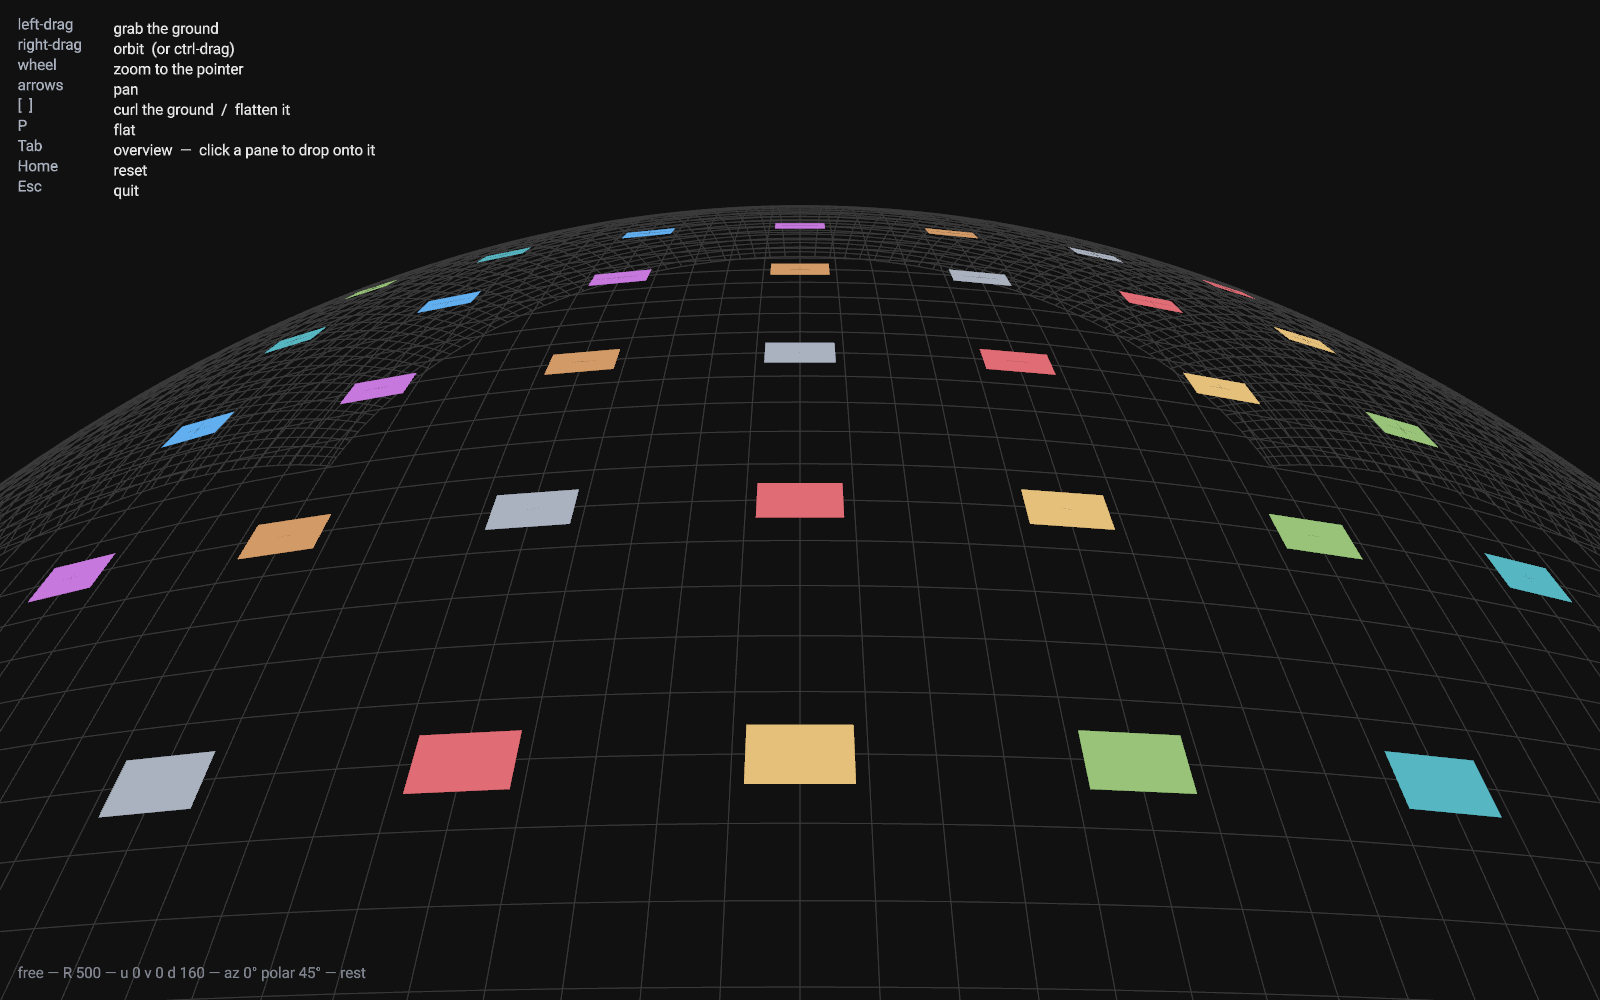
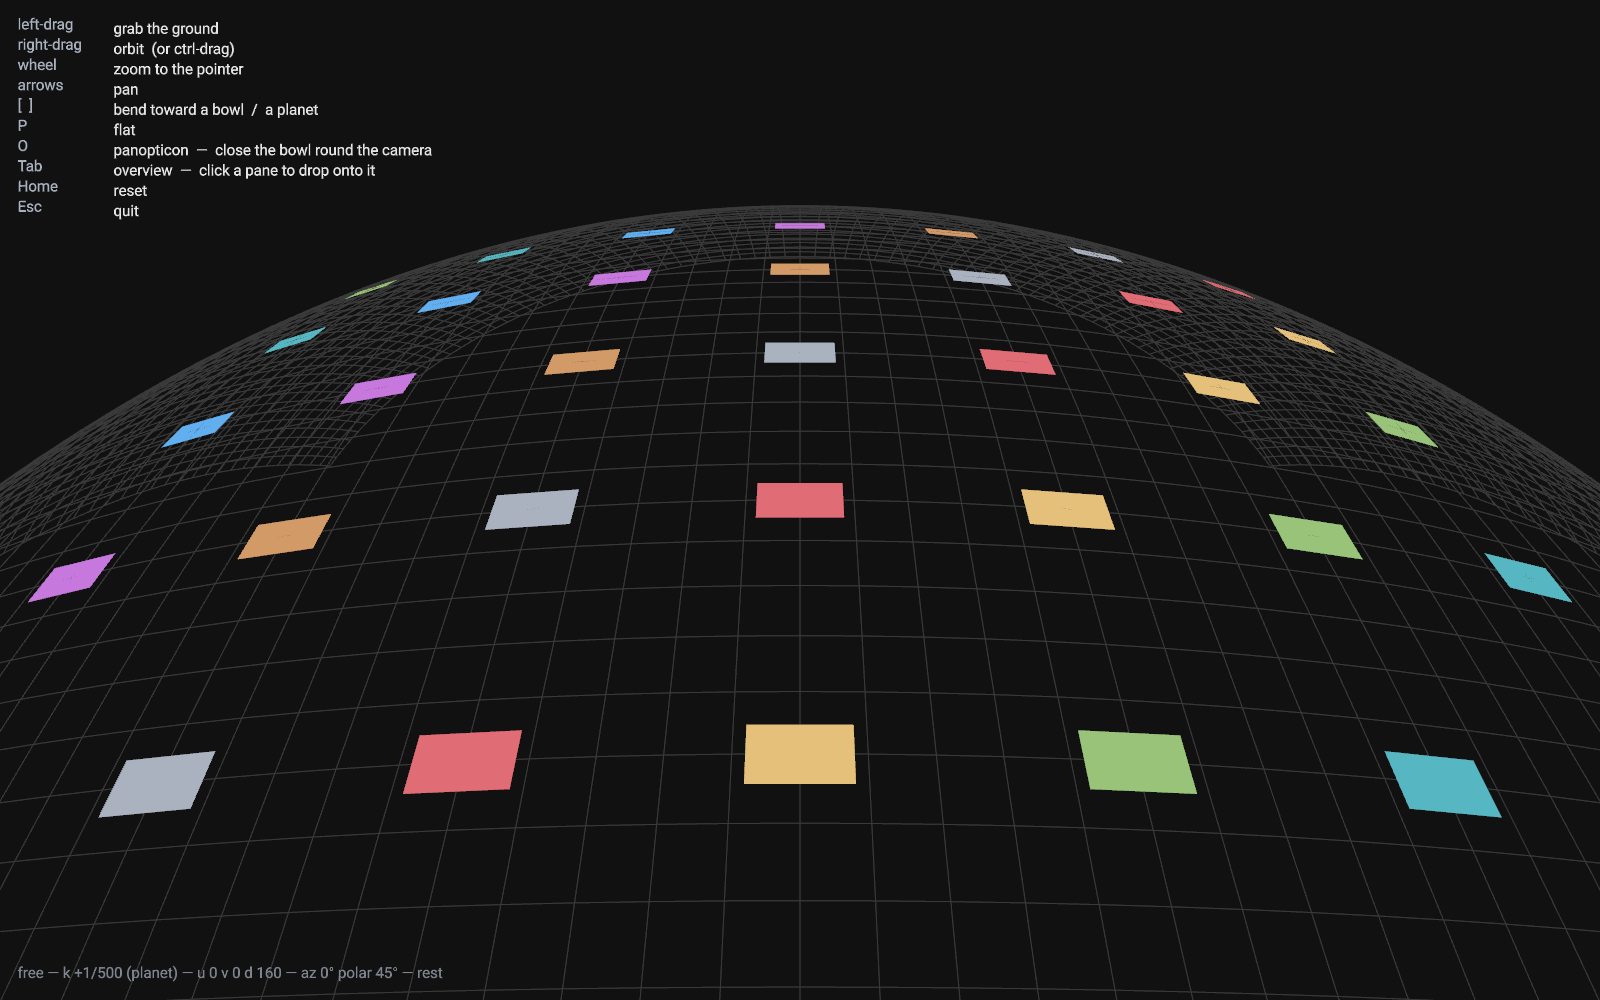
heli: [ ] walk the curvature through 0, O is the panopticon
[ and ] step a ladder of curvatures, +-MAX_CURVATURE / 1.25^i for 32 rungs
each side and 0 itself, so a press bends the ground by about the same look
and the plane is a rung rather than a limit. P sets k = 0. O sets
k = -1 / distance (the target's), which closes the bowl onto the camera and
puts it at the centre. --radius is now --curvature, signed, and takes a
fraction (--curvature -1/300). The grid is rewritten on any change of k,
sign included, where 0.2's relative test against the radius could never fire
from 0. The status line reads flat, or k +1/300 (planet), or k -1/300 (bowl).

The README takes the new vocabulary, and shots/ is the same six frames
rendered with --curvature, plus a -1/300 bowl from 160 out at 60 degrees and
the panopticon: level from the centre of a -1/160 bowl.

Claude-Session: https://claude.ai/code/session_01UyrybVtkstAakkV52gwH6z

Changed region(s): [[0.0625, 0.093, 0.2812, 0.217], [0.0312, 0.961, 0.25, 0.992], [0.0, 0.124, 0.0312, 0.217]]

diff --git a/addons/controls/src/bin/heli.rs b/addons/controls/src/bin/heli.rs
@@ -1,17 +1,20 @@
 //! The demo for [`three_rs_controls`]: a map camera over a ground that can be
-//! flat or a small planet, with a grid of panes lying on it.
+//! flat, a small planet, or a bowl closing round the camera, with a grid of
+//! panes lying on it.
 //!
 //! ```text
 //! cargo run --release -p three-rs-controls --bin heli
 //! cargo run --release -p three-rs-controls --bin heli -- --headless shots/heli-plane-low.png
-//! cargo run --release -p three-rs-controls --bin heli -- --headless shots/x.png --radius 300 --overview
+//! cargo run --release -p three-rs-controls --bin heli -- --headless shots/x.png --curvature 1/300 --overview
+//! cargo run --release -p three-rs-controls --bin heli -- --headless shots/x.png --curvature -1/160 --pose 0,0,160,0,90
 //! ```
 //!
 //! Left-drag grabs the ground and pulls it under the cursor, right-drag (or
 //! ctrl and left-drag) orbits, the wheel zooms toward the pointer, the arrow
-//! keys pan, `[` and `]` curl the ground up and flatten it again, `P` snaps it
-//! flat, `Home` returns to the start pose, `Tab` is the overview and `Esc`
-//! quits. In the overview a click picks a pane and drops onto it.
+//! keys pan, `[` and `]` bend the ground toward a bowl and toward a planet,
+//! through the plane, `P` snaps it flat, `O` closes the bowl round the camera
+//! (the panopticon), `Home` returns to the start pose, `Tab` is the overview
+//! and `Esc` quits. In the overview a click picks a pane and drops onto it.
 //!
 //! The window, the surface, the event loop and the headless path are lifted
 //! from `src/bin/viewer.rs`; the scene and the controls are this file's own.
@@ -29,7 +32,7 @@ use three_rs::{
     plane_geometry, Color, LineSegments, Matrix4, Mesh, MeshBasicNodeMaterial, ObjectRef,
     PerspectiveCamera, Renderer, RendererParameters, Scene, Vector3,
 };
-use three_rs_controls::{Ground, MapControls, Mode, Pane, Pose};
+use three_rs_controls::{Ground, MapControls, Mode, Pane, Pose, MAX_CURVATURE};
 
 use winit::application::ApplicationHandler;
 use winit::event::{ElementState, Modifiers, MouseButton, MouseScrollDelta, WindowEvent};
@@ -42,10 +45,18 @@ use winit::window::{Window, WindowId};
 /// The vertical field of view the fit and the projection both use.
 const FOV: f64 = 60.0;
 
-/// The ground the demo opens on: a planet small enough that the horizon is
-/// in shot from the first tilt, with the whole grid still on the near side.
-/// `P` flattens it to `1e7`.
-const START_RADIUS: f64 = 500.0;
+/// The ground the demo opens on: a planet of radius 500, small enough that
+/// the horizon is in shot from the first tilt, with the whole grid still on
+/// the near side. `P` flattens it to `0`.
+const START_CURVATURE: f64 = 1.0 / 500.0;
+
+/// `[` and `]` step the curvature by this ratio either side of the plane, as
+/// 0.2 stepped the radius, so each press bends the ground by about the same
+/// look. A ratio never reaches `0`, so the ladder has `CURVATURE_RUNGS` of
+/// them each side and then `0` itself: at `MAX_CURVATURE / 1.25³¹`, a radius
+/// of about 40 000, the 400-unit grid's edges sag by two units.
+const CURVATURE_RATIO: f64 = 1.25;
+const CURVATURE_RUNGS: i32 = 32;
 
 /// The grid runs over `[ -GRID_EXTENT, GRID_EXTENT ]` in both ground
 /// coordinates, with an iso-line every `GRID_STEP` and a vertex every
@@ -68,9 +79,10 @@ const LEGEND_MARGIN_PX: f64 = 18.0;
 /// The keys column is this wide.
 const LEGEND_KEYS_PX: f64 = 96.0;
 
-const LEGEND_KEYS: &str = "left-drag\nright-drag\nwheel\narrows\n[  ]\nP\nTab\nHome\nEsc";
+const LEGEND_KEYS: &str = "left-drag\nright-drag\nwheel\narrows\n[  ]\nP\nO\nTab\nHome\nEsc";
 const LEGEND_ACTIONS: &str = "grab the ground\norbit  (or ctrl-drag)\nzoom to the pointer\npan\n\
-                              curl the ground  /  flatten it\nflat\n\
+                              bend toward a bowl  /  a planet\nflat\n\
+                              panopticon  —  close the bowl round the camera\n\
                               overview  —  click a pane to drop onto it\nreset\nquit";
 
 /// Eight colours, cycling by pane index.
@@ -85,6 +97,55 @@ fn start_pose() -> Pose {
         distance: 160.0,
         azimuth: 0.0,
         polar: 0.0,
+    }
+}
+
+/// The curvature ladder `[` and `]` walk: `±MAX_CURVATURE / CURVATURE_RATIO^i`
+/// for `i` in `0..CURVATURE_RUNGS`, and `0`, ascending.
+fn curvature_rungs() -> Vec<f64> {
+    let mut rungs = vec![0.0];
+    for i in 0..CURVATURE_RUNGS {
+        let k = MAX_CURVATURE / CURVATURE_RATIO.powi(i);
+        rungs.push(k);
+        rungs.push(-k);
+    }
+    rungs.sort_by(f64::total_cmp);
+    rungs
+}
+
+/// The next rung above `k`, or below it, from wherever `k` is: on a rung, off
+/// the ladder after `O` or `--curvature`, or at either end, where it stays.
+fn step_curvature(k: f64, up: bool) -> f64 {
+    let rungs = curvature_rungs();
+    // A hair of slack, so a `k` that is a rung to rounding counts as on it.
+    let slack = 1e-9 * k.abs();
+    let next = if up {
+        rungs.iter().copied().find(|&rung| rung > k + slack)
+    } else {
+        rungs.iter().rev().copied().find(|&rung| rung < k - slack)
+    };
+    next.unwrap_or(k)
+}
+
+/// `0.004`, `-0.004` or `-1/250`: a number, or a quotient of two.
+fn parse_curvature(text: &str) -> Option<f64> {
+    match text.split_once('/') {
+        Some((numerator, denominator)) => {
+            Some(numerator.trim().parse::<f64>().ok()? / denominator.trim().parse::<f64>().ok()?)
+        }
+        None => text.trim().parse().ok(),
+    }
+}
+
+/// The ground for the status line: `flat`, or the sign and radius, which
+/// read more easily than the curvature itself.
+fn describe(k: f64) -> String {
+    if k == 0.0 {
+        "flat".to_owned()
+    } else {
+        let sign = if k > 0.0 { "+" } else { "-" };
+        let what = if k > 0.0 { "planet" } else { "bowl" };
+        format!("k {sign}1/{:.0} ({what})", 1.0 / k.abs())
     }
 }
 
@@ -238,8 +299,8 @@ struct App {
     grid: ObjectRef,
     pane_nodes: Vec<ObjectRef>,
     legend: Option<Legend>,
-    /// The radius the grid's vertices were last built for.
-    grid_radius: f64,
+    /// The curvature the grid's vertices were last built for.
+    grid_curvature: f64,
     size: (u32, u32),
 }
 
@@ -248,14 +309,14 @@ impl App {
     /// renderer share an adapter — or on the renderer's own for the headless
     /// path.
     fn build(instance: Option<wgpu::Instance>, size: (u32, u32), with_legend: bool) -> Self {
-        let ground = Ground::new(START_RADIUS);
+        let ground = Ground::new(START_CURVATURE);
         let controls = MapControls::new(ground, start_pose());
         let panes = demo_panes();
 
         let mut scene = Scene::new();
         scene.set_background(Color::from_hex(0x111111));
 
-        // The grid: one `LineSegments`, rewritten in place when the radius
+        // The grid: one `LineSegments`, rewritten in place when the curvature
         // changes, never rebuilt.
         let grid = {
             let mut geometry = BufferGeometry::new();
@@ -310,7 +371,7 @@ impl App {
             grid,
             pane_nodes,
             legend,
-            grid_radius: ground.radius(),
+            grid_curvature: ground.curvature(),
             size,
         };
         app.set_size(size.0, size.1);
@@ -336,15 +397,17 @@ impl App {
     /// the grid's vertices if the ground curled since the last frame, then
     /// every pane's transform, then the camera.
     fn sync(&mut self) {
-        let radius = self.controls.ground().radius();
-        if (radius - self.grid_radius).abs() > 1e-6 * self.grid_radius {
+        // Any change at all, sign included: a relative test against the
+        // last value, as 0.2 had against its radius, never fires from `0`.
+        let curvature = self.controls.ground().curvature();
+        if curvature != self.grid_curvature {
             let positions = grid_positions(self.controls.ground());
             self.grid
                 .borrow()
                 .line()
                 .expect("the grid is a LineSegments")
                 .set_positions(&positions);
-            self.grid_radius = radius;
+            self.grid_curvature = curvature;
         }
 
         for (pane, node) in self.panes.iter().zip(&self.pane_nodes) {
@@ -373,16 +436,16 @@ impl App {
         }
     }
 
-    /// The status line: mode, ground radius and pose.
+    /// The status line: mode, ground and pose.
     fn status(&self) -> String {
         let pose = self.controls.current();
         format!(
-            "{} — R {:.0} — u {:.0} v {:.0} d {:.0} — az {:.0}° polar {:.0}°{}",
+            "{} — {} — u {:.0} v {:.0} d {:.0} — az {:.0}° polar {:.0}°{}",
             match self.controls.mode() {
                 Mode::Free => "free",
                 Mode::Overview => "overview",
             },
-            self.controls.ground().radius(),
+            describe(self.controls.ground().curvature()),
             pose.u,
             pose.v,
             pose.distance,
@@ -616,8 +679,9 @@ impl ApplicationHandler for Heli {
 
         println!(
             "heli — drag the ground, right-drag (or ctrl-drag) to orbit, \
-             the wheel zooms to the pointer, the arrows pan, [ ] curl the ground, \
-             P flattens it, Home resets, Tab is the overview, Esc quits"
+             the wheel zooms to the pointer, the arrows pan, [ ] bend the ground \
+             toward a bowl and a planet, P flattens it, O is the panopticon, \
+             Home resets, Tab is the overview, Esc quits"
         );
 
         window.request_redraw();
@@ -646,9 +710,19 @@ impl ApplicationHandler for Heli {
                     Key::Character(text) => {
                         for character in text.chars().flat_map(char::to_lowercase) {
                             match character {
-                                '[' if pressed => app.controls.scale_radius(1.25),
-                                ']' if pressed => app.controls.scale_radius(1.0 / 1.25),
-                                'p' if pressed => app.controls.set_radius(1e7),
+                                '[' if pressed => {
+                                    let k = app.controls.target_curvature();
+                                    app.controls.set_curvature(step_curvature(k, false));
+                                }
+                                ']' if pressed => {
+                                    let k = app.controls.target_curvature();
+                                    app.controls.set_curvature(step_curvature(k, true));
+                                }
+                                'p' if pressed => app.controls.set_curvature(0.0),
+                                'o' if pressed => {
+                                    let distance = app.controls.target().distance;
+                                    app.controls.set_curvature(-1.0 / distance);
+                                }
                                 _ => {}
                             }
                         }
@@ -778,17 +852,17 @@ fn headless(
     path: &str,
     size: (u32, u32),
     pose: Option<Pose>,
-    radius: Option<f64>,
+    curvature: Option<f64>,
     overview: bool,
     legend: bool,
 ) {
     let mut app = App::build(None, size, legend);
 
-    if let Some(radius) = radius {
-        app.controls.set_radius(radius);
+    if let Some(curvature) = curvature {
+        app.controls.set_curvature(curvature);
     }
     if let Some(pose) = pose {
-        app.controls = MapControls::new(Ground::new(app.controls.target_radius()), pose);
+        app.controls = MapControls::new(Ground::new(app.controls.target_curvature()), pose);
     }
     app.controls.settle();
 
@@ -812,13 +886,15 @@ fn headless(
 
 const USAGE: &str = "usage: heli [--headless out.png] \
                      [--pose u,v,distance,azimuth_deg,polar_deg] \
-                     [--radius R] [--overview] [--size WxH] [--no-legend]";
+                     [--curvature K] [--overview] [--size WxH] [--no-legend]\n\
+                     K is signed, 0 for the plane and below 0 for a bowl, \
+                     and may be a fraction: --curvature -1/300";
 
 fn main() {
     let mut args = std::env::args().skip(1);
     let mut out: Option<String> = None;
     let mut pose: Option<Pose> = None;
-    let mut radius: Option<f64> = None;
+    let mut curvature: Option<f64> = None;
     let mut overview = false;
     let mut size = (1600u32, 1000u32);
     let mut legend = true;
@@ -848,10 +924,10 @@ fn main() {
                     polar: numbers[4] * DEG2RAD,
                 });
             }
-            "--radius" => {
-                radius = Some(
+            "--curvature" => {
+                curvature = Some(
                     args.next()
-                        .and_then(|text| text.parse().ok())
+                        .and_then(|text| parse_curvature(&text))
                         .unwrap_or_else(|| panic!("{USAGE}")),
                 );
             }
@@ -874,7 +950,7 @@ fn main() {
     }
 
     if let Some(out) = out {
-        headless(&out, size, pose, radius, overview, legend);
+        headless(&out, size, pose, curvature, overview, legend);
         return;
     }
 

diff --git a/addons/controls/README.md b/addons/controls/README.md
@@ -11,18 +11,26 @@ it is this crate's own design, and its `smooth_damp` is
 three.js'. Its constants are not camera-controls' defaults, which read as hefty;
 `map_controls.rs` records what was tried and why.
 
-- **`Ground`** — one sphere formula. `R = 1e7` reads as a plane; a small `R` is a
-  planet. Ground coordinate `( 0, 0 )` is the world origin at every radius, so
-  content authored on a plane keeps its place when the ground is curled up.
-  `Ground::frame( u, v )` is an east/north/normal frame at any point.
+- **`Ground`** — one formula over a signed curvature `k`. `k = 0` is the plane,
+  exactly; `k > 0` is a planet of radius `1 / k`; `k < 0` is a bowl, the sphere
+  closing round the camera, with the grid on its inside. No term divides by
+  `k`, so the ground slides from planet to bowl through the plane without a
+  seam. Ground coordinate `( 0, 0 )` is the world origin at every curvature, so
+  content authored on a plane keeps its place when the ground bends.
+  `Ground::frame( u, v )` is an east/north/normal frame at any point, the normal
+  on the camera's side; `Ground::intersect` is the ray test, near side of a
+  planet, far wall of a bowl.
 - **`Pose`** — a target `( u, v )` on the ground, a distance, an azimuth and a
-  polar angle. The camera never rolls: `up` is the ground normal.
-- **`MapControls`** — left-drag grabs the ground (ray-sphere, iterated to a
-  fixed point so what was under the cursor stays there), right-drag or
+  polar angle. The camera never rolls: `up` is the ground normal. In a bowl the
+  distance is capped at the radius, and at the cap the camera is the sphere's
+  centre, looking round at the wall: the panopticon.
+- **`MapControls`** — left-drag grabs the ground (the ray test, solved by
+  Newton's method so what was under the cursor stays there), right-drag or
   ctrl-drag tilts and orbits, the wheel zooms to the cursor, the arrows pan, and
   `Tab` is an overview fitted to a set of `Pane`s, from which a click drops onto
-  one. Every field is damped with `smooth_damp`; `Damping` holds the smooth
-  times, for an app that wants a different feel.
+  one. Every field is damped with `smooth_damp`, the curvature included, so
+  `set_curvature` morphs the ground; `Damping` holds the smooth times, for an
+  app that wants a different feel.
 
 ## Usage
 
@@ -31,7 +39,7 @@ use three_rs::cameras::PerspectiveCamera;
 use three_rs_controls::{Ground, MapControls, Pose};
 
 let mut controls = MapControls::new(
-    Ground::new(1e7),
+    Ground::flat(),
     Pose {
         u: 0.0,
         v: 0.0,
@@ -52,18 +60,23 @@ cargo run --release -p three-rs-controls --bin heli
 ```
 
 `heli` is the demo, and its key map is on screen. It opens on a planet of
-`R = 500`: tilt with a right-drag and the horizon is in shot; left-drag and what
-was under the cursor stays there as the ball turns under you. **left-drag**
-grabs the ground, **right-drag** (or **ctrl**-drag) orbits, the **wheel** zooms
-to the pointer, the **arrows** pan, **[** **]** curl the ground and **P**
-flattens it, **Home** resets, **Tab** is the overview (click a pane to drop onto
-it), **Esc** quits. `--headless out.png` renders one frame, `--no-legend` without
-the key map:
+radius 500 (`k = 1/500`): tilt with a right-drag and the horizon is in shot;
+left-drag and what was under the cursor stays there as the ball turns under
+you. **left-drag** grabs the ground, **right-drag** (or **ctrl**-drag) orbits,
+the **wheel** zooms to the pointer, the **arrows** pan, **[** bends the ground
+toward a bowl and **]** toward a planet, a step at a time through the plane,
+**P** flattens it, **O** closes the bowl round the camera (the panopticon),
+**Home** resets, **Tab** is the overview (click a pane to drop onto it), **Esc**
+quits. `--headless out.png` renders one frame, `--no-legend` without the key
+map, and `--curvature` sets the ground, negative for a bowl and a fraction if
+that reads better:
 
 ```sh
 cargo run --release -p three-rs-controls --bin heli -- \
-    --headless shots/heli-sphere-high.png \
-    --radius 300 --pose 0,0,800,0,20 [--overview] [--size 1600x1000] [--no-legend]
+    --headless shots/heli-panopticon.png \
+    --curvature -1/160 --pose 0,0,160,0,90 [--overview] [--size 1600x1000] [--no-legend]
 ```
 
-`shots/` holds six such frames: two grounds by three poses.
+`shots/` holds eight such frames: the plane and the `1/500` planet by three
+poses, then a `-1/300` bowl from 160 out at 60°, and the panopticon above,
+looking level from the centre of a `-1/160` bowl.
